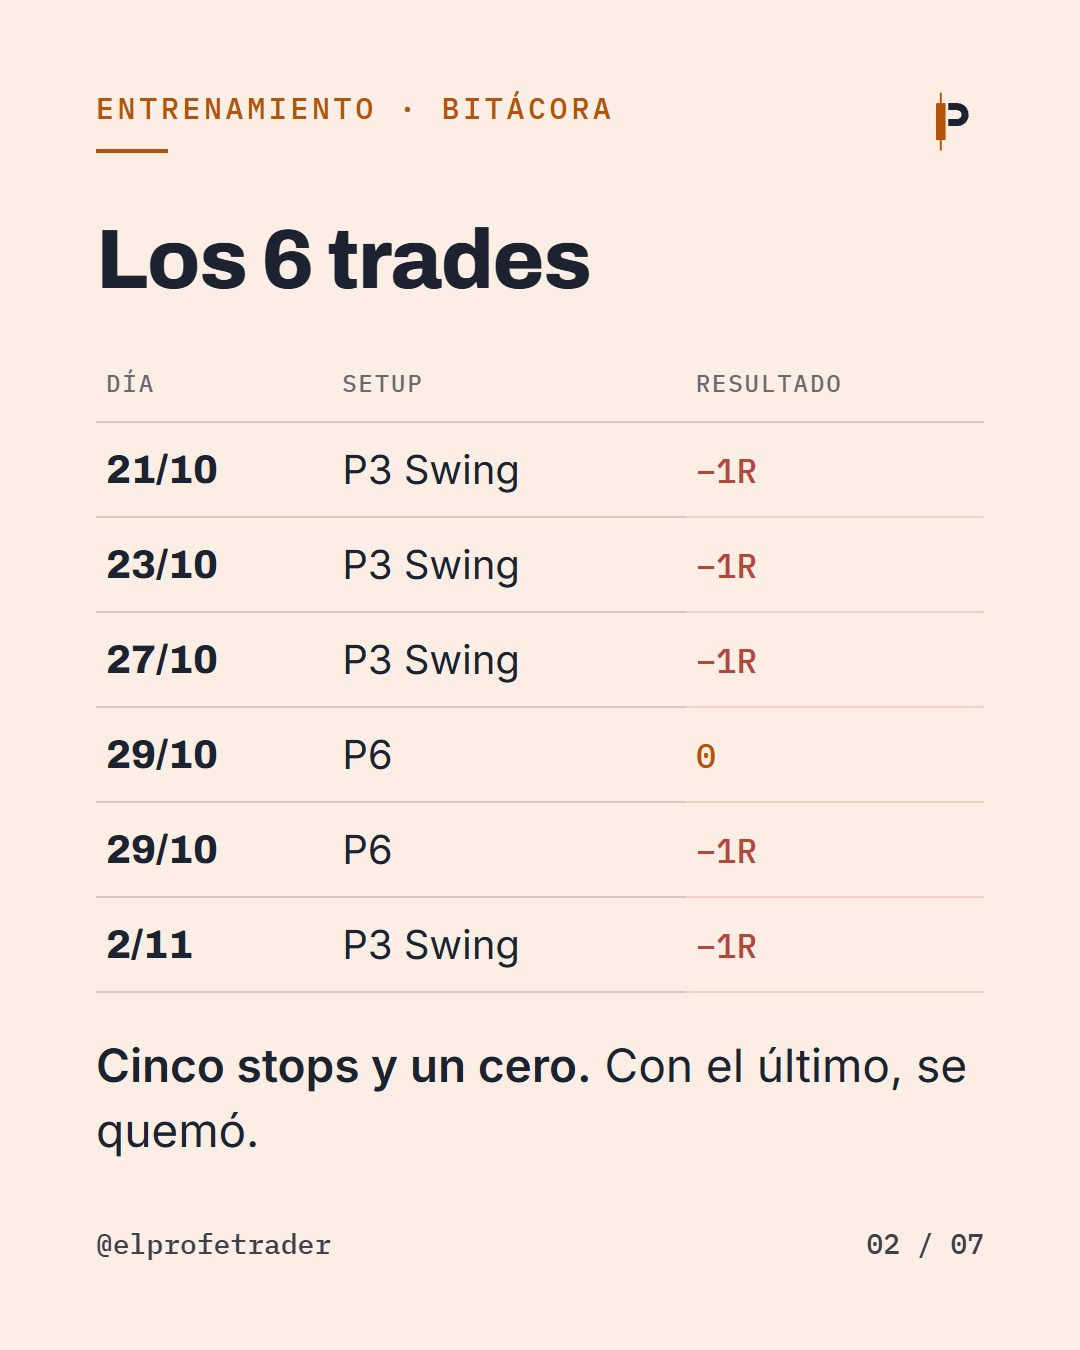
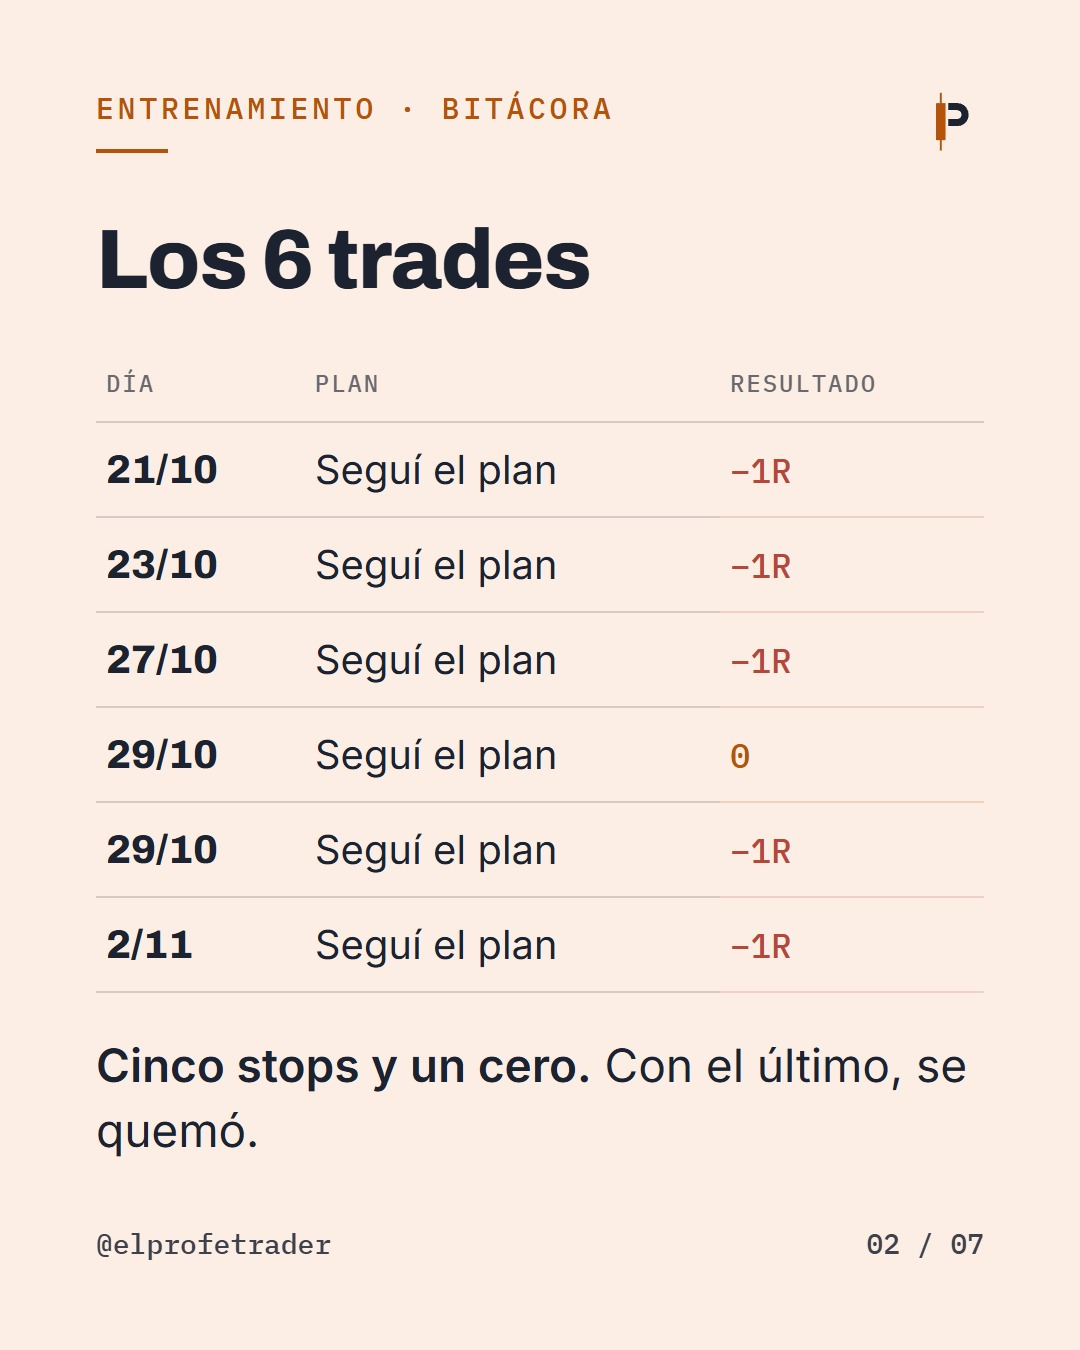
Sin nombres de setup en Threads, planilla de los viernes y autopsia

diff --git a/diario_threads.py b/diario_threads.py
@@ -1,7 +1,7 @@
 """Operativa del día en Threads: lee los trades REALES del Diario de Futuros y agenda el resumen del día.
 Uso: python diario_threads.py            -> si es día hábil y ya son las 19:00 ART, agrega "op-AAAA-MM-DD" a threads/posteos.json
      python diario_threads.py --prueba AAAA-MM-DD -> muestra el texto de ese día, sin agendar nada
-Reglas del fundador (25/11): después del cierre, nunca en vivo; plata permitida; sin número de cuenta ni firma;
+Reglas del fundador (25/11): sin el nombre del setup; después del cierre, nunca en vivo; plata permitida; sin número de cuenta ni firma;
 los días sin trade también (solo si él anotó el motivo); cierre "Mi diario, no una recomendación".
 Si el diario no responde o el día no tiene nada cargado, no hace nada (cero invento)."""
 import json, os, sys, datetime
@@ -28,7 +28,7 @@ def linea(t, n=None):
     plata = f"{'+' if usd >= 0 else '-'}USD {abs(usd):,.0f}".replace(",", ".")
     antes = (t.get("psy") or {}).get("before")
     partes = [f"{'Trade ' + str(n) + ': ' if n else ''}{NOMBRE.get(t.get('inst'), t.get('inst', ''))} en {lado}"
-              + (f", setup {t['setup']}" if t.get("setup") else "") + ".",
+              + ".",  # el nombre del setup NO se publica (pedido del fundador 25/11)
               f"Resultado: {res} · {plata} netos de comisión." if res else f"Resultado: {plata} netos de comisión.",
               ("Antes de entrar: " + (", ".join(antes) if isinstance(antes, list) else str(antes)).lower() + "." if antes else ""),
               "Seguí el plan: " + ("sí." if t.get("plan") else "no.")]

diff --git a/planilla.py b/planilla.py
@@ -50,7 +50,7 @@ def calcular(d, viernes):
             for t in del_dia:
                 r = puntos(t) / float(t["risk"]) if float(t.get("risk") or 0) else 0
                 res = "BE" if es_be(t) else f"{r:+.1f}R".replace(".", ",")
-                filas.append((DIAS[i], f"{t.get('setup','')} · {t.get('inst','')}", res))
+                filas.append((DIAS[i], f"{t.get('inst','')} en {'largo' if t.get('side') == 'long' else 'corto'}", res))  # sin nombre de setup (fundador 25/11)
         else:
             skip = (d.get("days", {}).get(f) or {}).get("skip")
             filas.append((DIAS[i], "No operé" + (f": {MOTIVO.get(skip.get('reason'), 'no operé')}" if skip else ""), "—"))
